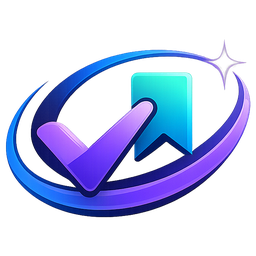
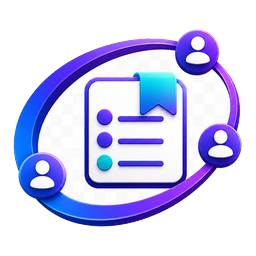
56465

diff --git a/app/login/page.tsx b/app/login/page.tsx
@@ -11,11 +11,14 @@ export default function LoginPage() {
   const router = useRouter();
   const [mode, setMode] = useState<Mode>("signin");
   const [name, setName] = useState("");
+  const [username, setUsername] = useState("");
   const [email, setEmail] = useState("");
   const [password, setPassword] = useState("");
   const [loading, setLoading] = useState(false);
   const [error, setError] = useState<string | null>(null);
   const [info, setInfo] = useState<string | null>(null);
+
+  const USERNAME_RE = /^[a-z0-9_]{3,20}$/;
 
   useEffect(() => {
     supabase.auth.getSession().then(({ data }) => {
@@ -44,17 +47,46 @@ export default function LoginPage() {
           setLoading(false);
           return;
         }
+
+        const normalizedUsername = username.trim().toLowerCase();
+        if (!USERNAME_RE.test(normalizedUsername)) {
+          setError("اسم اليوزر لازم يكون من 3 لـ 20 حرف، وحروف إنجليزي صغيرة أو أرقام أو _ بس");
+          setLoading(false);
+          return;
+        }
+
+        // نتأكد إن اليوزرنيم متاح قبل ما نبعت طلب التسجيل
+        const { data: exists, error: checkError } = await supabase.rpc(
+          "username_exists",
+          { check_username: normalizedUsername }
+        );
+        if (checkError) throw checkError;
+        if (exists) {
+          setError("اليوزر ده متسجل بالفعل، جرّب واحد تاني");
+          setLoading(false);
+          return;
+        }
+
         const { error } = await supabase.auth.signUp({
           email,
           password,
           options: {
-            data: { full_name: trimmedName },
+            data: { full_name: trimmedName, username: normalizedUsername },
           },
         });
-        if (error) throw error;
+        if (error) {
+          // لو حصل تعارض لحظي على نفس اليوزرنيم (اتسجل من حد تاني في نفس اللحظة)
+          if (/duplicate|unique|already exists/i.test(error.message)) {
+            setError("اليوزر ده متسجل بالفعل، جرّب واحد تاني");
+            setLoading(false);
+            return;
+          }
+          throw error;
+        }
         setInfo("تم إنشاء الحساب بنجاح. تحقق من بريدك الإلكتروني لتأكيد الحساب ثم سجّل دخولك.");
         setMode("signin");
         setName("");
+        setUsername("");
       }
     } catch (err: any) {
       setError(err?.message || "حصل خطأ، حاول تاني");
@@ -101,6 +133,30 @@ export default function LoginPage() {
                   placeholder="اسمك"
                   className="w-full rounded-lg border border-line bg-paper px-3.5 py-2.5 text-sm text-ink placeholder:text-inkSoft/60 outline-none transition-colors focus:border-teal"
                 />
+              </div>
+            )}
+
+            {mode === "signup" && (
+              <div className="fade-in">
+                <label className="block text-sm font-medium text-inkSoft mb-1.5">
+                  اسم اليوزر
+                </label>
+                <input
+                  type="text"
+                  required
+                  value={username}
+                  onChange={(e) =>
+                    setUsername(
+                      e.target.value.toLowerCase().replace(/[^a-z0-9_]/g, "")
+                    )
+                  }
+                  placeholder="username"
+                  dir="ltr"
+                  className="w-full rounded-lg border border-line bg-paper px-3.5 py-2.5 text-sm text-ink placeholder:text-inkSoft/60 outline-none transition-colors focus:border-teal text-left"
+                />
+                <p className="text-xs text-inkSoft mt-1">
+                  حروف إنجليزي صغيرة أو أرقام أو _ بس، من 3 لـ 20 حرف
+                </p>
               </div>
             )}
 
@@ -166,6 +222,7 @@ export default function LoginPage() {
                 setMode(mode === "signin" ? "signup" : "signin");
                 setError(null);
                 setInfo(null);
+                setUsername("");
               }}
               className="text-teal font-medium hover:underline"
             >

diff --git a/lib/supabase.ts b/lib/supabase.ts
@@ -17,14 +17,23 @@ export const supabase = createClient(
   supabaseAnonKey || "placeholder-anon-key"
 );
 
+export type Profile = {
+  id: string;
+  username: string;
+  full_name: string;
+  created_at: string;
+};
+
 export type Project = {
   id: string;
+  user_id: string;
   name: string;
   created_at: string;
 };
 
 export type Task = {
   id: string;
+  user_id: string;
   project_id: string;
   title: string;
   is_done: boolean;
@@ -33,6 +42,7 @@ export type Task = {
 
 export type LinkItem = {
   id: string;
+  user_id: string;
   url: string;
   description: string;
   created_at: string;

diff --git a/README.md b/README.md
@@ -9,7 +9,8 @@
 ## 1. جهّز Supabase
 
 1. افتح مشروعك في supabase.com (أو اعمل مشروع جديد).
-2. روح على **SQL Editor** وشغّل محتوى ملف `supabase/schema.sql` اللي في المشروع ده (نسخ/لصق وRun). ده هيعمل الجداول التلاتة: `projects`, `tasks`, `links`.
+2. روح على **SQL Editor** وشغّل محتوى ملف `supabase/schema.sql` اللي في المشروع ده (نسخ/لصق وRun). ده هيعمل جدول `profiles` (فيه اسم اليوزر اليونيك) بالإضافة للجداول التلاتة: `projects`, `tasks`, `links`.
+3. من **Authentication → Providers → Email**، سيب "Confirm email" شغالة أو اقفلها حسب رغبتك (لو قافلها، اليوزر هيقدر يسجّل دخول على طول من غير تأكيد إيميل).
 3. من **Project Settings → API** خد:
    - `Project URL`
    - `anon public key`
@@ -45,9 +46,11 @@ npm run dev
    - `NEXT_PUBLIC_SUPABASE_ANON_KEY`
 4. Deploy، وخلاص هيشتغل.
 
-## ملاحظة عن الحماية (RLS)
+## ملاحظة عن الحماية (RLS) وتعدد المستخدمين
 
-الـ SQL بيفعّل Row Level Security بس بسياسة مفتوحة (public access) عشان الموقع شخصي بدون تسجيل دخول. لو حبيت تأمينه أكتر بعدين (تسجيل دخول بالإيميل مثلاً)، قولّي وأظبطلك auth + سياسات مربوطة بـ `auth.uid()`.
+كل يوزر بيسجل حساب باسم مستخدم (username) لازم يكون يونيك — الجدول `profiles` فيه constraint بيمنع تكراره، وفي دالة `username_exists` بتتأكد إنه متاح قبل ما يخلّص التسجيل.
+
+كل صف في `projects` و`tasks` و`links` مربوط بـ `user_id` بيتحدد تلقائي بـ `auth.uid()` وقت الإضافة، وسياسات RLS بتمنع أي يوزر يشوف أو يعدّل داتا يوزر تاني. يعني كل شخص بيدخل بحسابه بيشوف مشاريعه ومهامه ولينكاته هو بس، وكأنه بدأ من الصفر لما يسجل حساب جديد.
 
 ## البنية
 